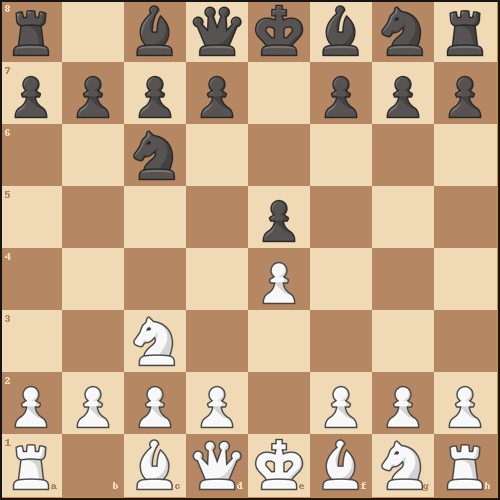
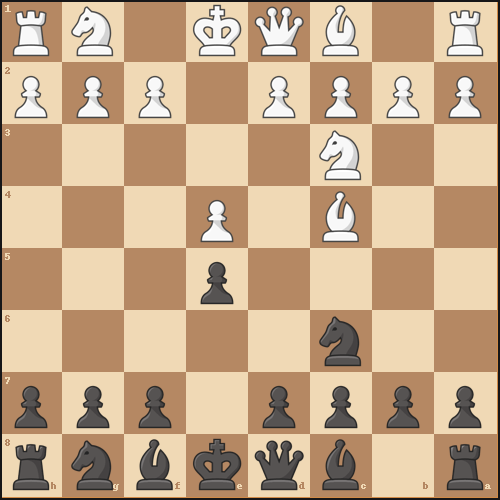
🚀 Update chessboard image, fen and readme

diff --git a/README.md b/README.md
@@ -14,5 +14,5 @@ Currently studying Software Design at the University of Applied Sciences in <a h
 ## Play chess by commenting on [this issue](https://github.com/thieleju/thieleju/issues/1)! (WIP) 
 
 <p align="center">
-  <img src="https://raw.githubusercontent.com/thieleju/thieleju/main/images/chessboard.png?v=$TIMESTAMP" \>
+  <img src="https://raw.githubusercontent.com/thieleju/thieleju/main/images/chessboard.png?v=1700870612 \>
 </p>
